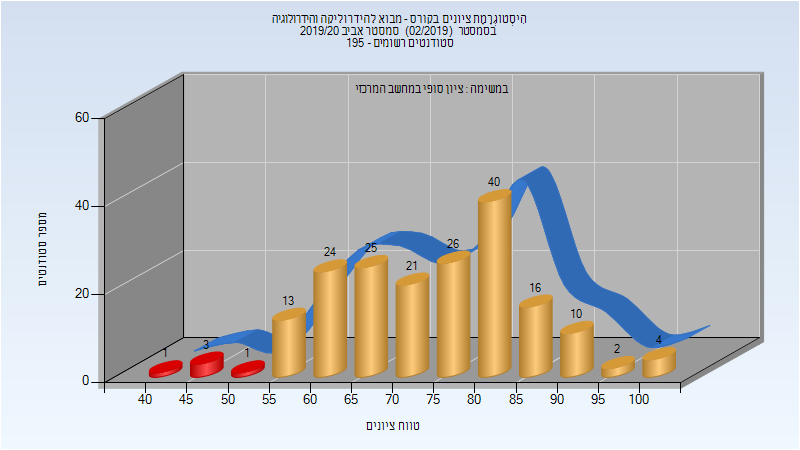
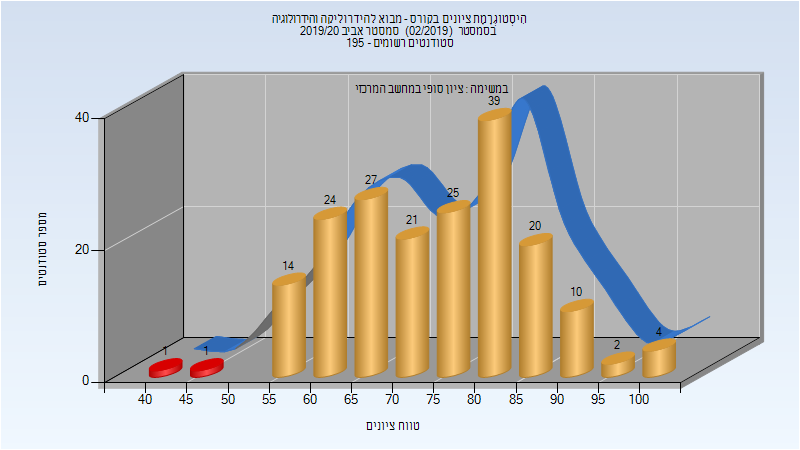
Deploy michael-maltsev/technion-histograms to github.com/michael-maltsev/technion-histograms.git:gh-pages

diff --git a/014213/index.html b/014213/index.html
@@ -403,12 +403,12 @@
 </thead>
 <tbody>
 <tr>
-<td>186</td>
-<td>181/5</td>
-<td>97</td>
+<td>188</td>
+<td>186/2</td>
+<td>99</td>
 <td>43</td>
 <td>100</td>
-<td>74.349</td>
+<td>74.878</td>
 <td>75</td>
 </tr>
 </tbody>

diff --git a/014213/README.md b/014213/README.md
@@ -123,5 +123,5 @@
 
 | סטודנטים | עברו/נכשלו | אחוז עוברים | ציון מינימלי | ציון מקסימלי | ממוצע | חציון |
 | ---- | ---- | ---- | ---- | ---- | ---- | ---- |
-| 186 | 181/5 | 97 | 43 | 100 | 74.349 | 75 |
+| 188 | 186/2 | 99 | 43 | 100 | 74.878 | 75 |
 
